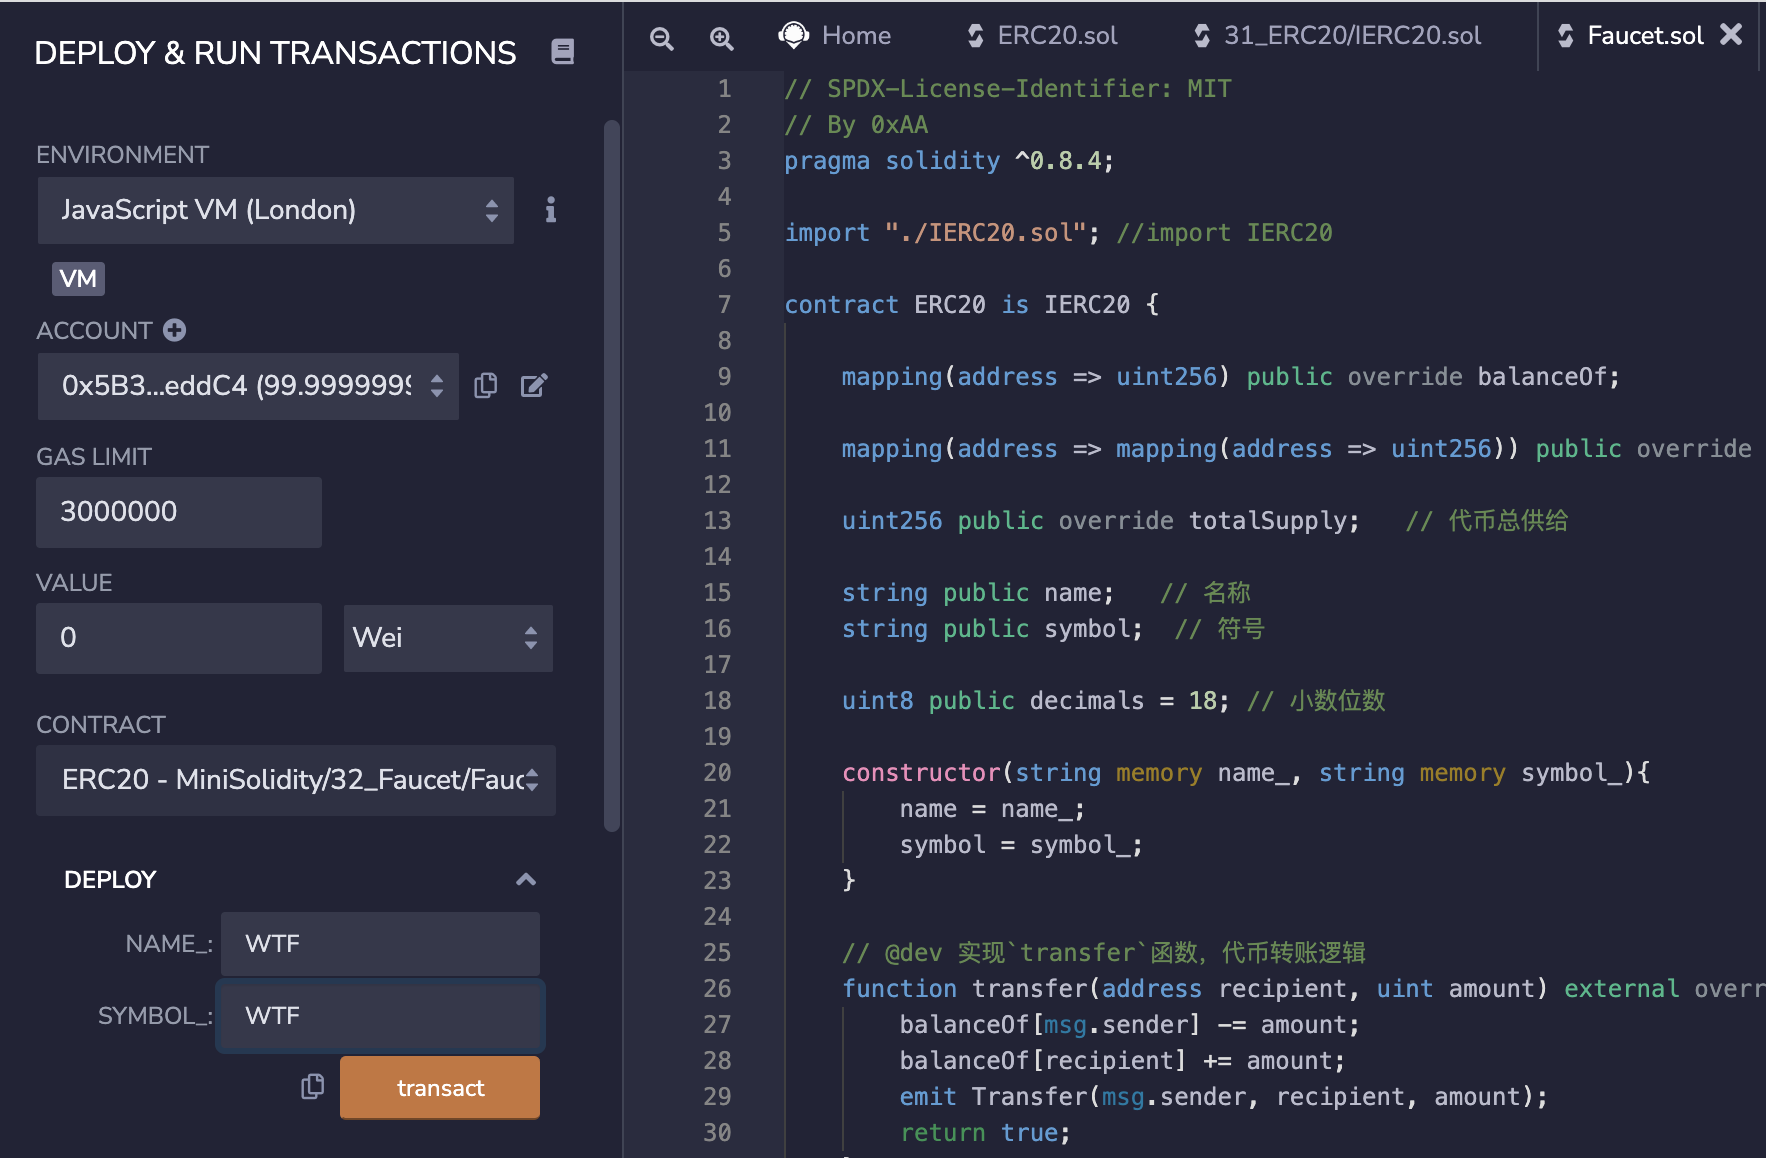
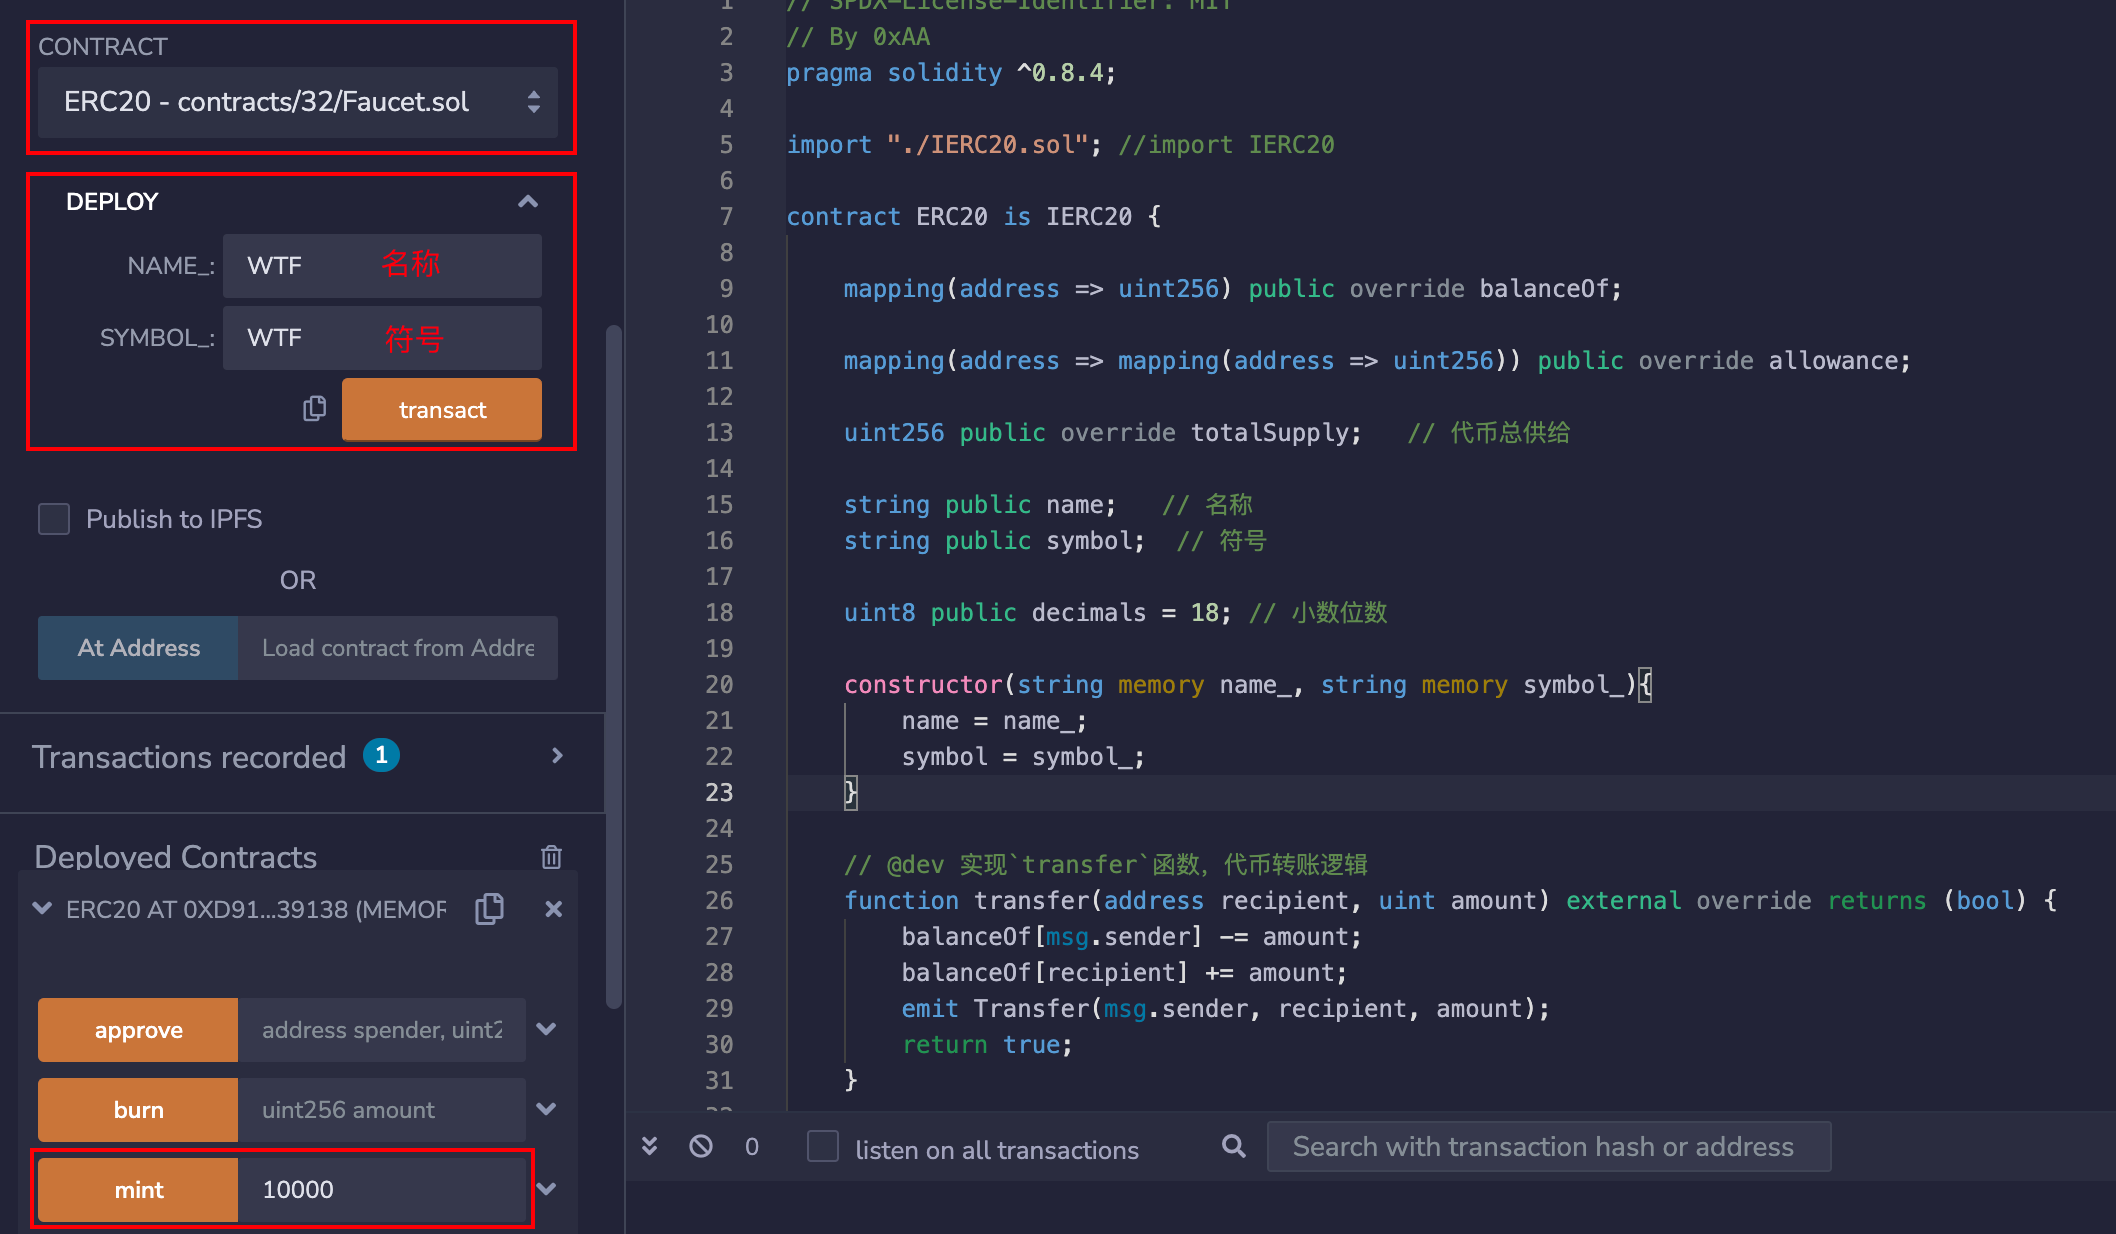
update 32_Faucet

diff --git a/32_Faucet/readme.md b/32_Faucet/readme.md
@@ -16,7 +16,7 @@
 
 当人渴的时候，就要去水龙头接水；当人想要免费代币的时候，就要去代币水龙头领。代币水龙头就是让用户免费领代币的网站/应用。
 
-最早的代币水龙头是比特币（BTC）水龙头：现在BTC一枚要$30,000，但是在2010年，BTC的价格只有不到$0.1，并且持有人很少。为了扩大影响力，比特币社区的Gavin Andresen开发了BTC水龙头，让别人可以免费领BTC。撸羊毛大家都喜欢，当时就有很多人去撸，一部分变为了BTC的信徒。BTC水龙头一共送出了超过19,700枚BTC，现在价值约6亿美元！
+最早的代币水龙头是比特币（BTC）水龙头：现在BTC一枚要\$30,000，但是在2010年，BTC的价格只有不到\$0.1，并且持有人很少。为了扩大影响力，比特币社区的Gavin Andresen开发了BTC水龙头，让别人可以免费领BTC。撸羊毛大家都喜欢，当时就有很多人去撸，一部分变为了BTC的信徒。BTC水龙头一共送出了超过19,700枚BTC，现在价值约6亿美元！
 
 ## ERC20水龙头合约
 
@@ -26,14 +26,14 @@
 
 我们在水龙头合约中定义3个状态变量
 
-- `amountAllowed`设定每次能领取代币数量（默认为`100`。不是一百枚，因为代币有小数位数）。
+- `amountAllowed`设定每次能领取代币数量（默认为`100`，不是一百枚，因为代币有小数位数）。
 - `tokenContract`记录发放的`ERC20`代币合约地址。
 - `requestedAddress`记录领取过代币的地址。
 
 ```solidity
-    uint256 public amountAllowed = 100; // 每次领 100 单位代币
-    address public tokenContract;   // token合约地址
-    mapping(address => bool) public requestedAddress;   // 记录领取过代币的地址
+uint256 public amountAllowed = 100; // 每次领 100 单位代币
+address public tokenContract;   // token合约地址
+mapping(address => bool) public requestedAddress;   // 记录领取过代币的地址
 ```
 
 ### 事件
@@ -41,8 +41,8 @@
 水龙头合约中定义了1个`SendToken`事件，记录了每次领取代币的地址和数量，在`requestTokens()`函数被调用时释放。
 
 ```solidity
-    // SendToken事件    
-    event SendToken(address indexed Receiver, uint256 indexed Amount); 
+// SendToken事件    
+event SendToken(address indexed Receiver, uint256 indexed Amount); 
 ```
 
 ### 函数
@@ -51,31 +51,31 @@
 
 - 构造函数：初始化`tokenContract`状态变量，确定发放的`ERC20`代币地址。
 ```solidity
-    // 部署时设定ERC2代币合约
-    constructor(address _tokenContract) {
-        tokenContract = _tokenContract; // set token contract
-    }
+// 部署时设定ERC2代币合约
+constructor(address _tokenContract) {
+	tokenContract = _tokenContract; // set token contract
+}
 ```
 
 - `requestTokens()`函数，用户调用它可以领取`ERC20`代币。
 
 ```solidity
-    // 用户领取代币函数
-    function requestTokens() external {
-        require(requestedAddress[msg.sender] == false, "Can't Request Multiple Times!"); // 每个地址只能领一次
-        IERC20 token = IERC20(tokenContract); // 创建IERC20合约对象
-        require(token.balanceOf(address(this)) >= amountAllowed, "Faucet Empty!"); // 水龙头空了
+// 用户领取代币函数
+function requestTokens() external {
+    require(requestedAddress[msg.sender] == false, "Can't Request Multiple Times!"); // 每个地址只能领一次
+    IERC20 token = IERC20(tokenContract); // 创建IERC20合约对象
+    require(token.balanceOf(address(this)) >= amountAllowed, "Faucet Empty!"); // 水龙头空了
 
-        token.transfer(msg.sender, amountAllowed); // 发送token
-        requestedAddress[msg.sender] = true; // 记录领取地址 
-        
-        emit SendToken(msg.sender, amountAllowed); // 释放SendToken事件
-    }
+    token.transfer(msg.sender, amountAllowed); // 发送token
+    requestedAddress[msg.sender] = true; // 记录领取地址 
+    
+    emit SendToken(msg.sender, amountAllowed); // 释放SendToken事件
+}
 ```
 
 ## Remix演示
 
-1. 首先，部署`ERC20`代币合约，并给自己`mint` 10000 单位代币。
+1. 首先，部署`ERC20`代币合约，名称和符号为`WTF`，并给自己`mint` 10000 单位代币。
     ![部署`ERC20`](./img/32-1.png)
 
 2. 部署`Faucet`水龙头合约，初始化的参数填上面`ERC20`代币的合约地址。
@@ -83,12 +83,14 @@
 
 3. 利用`ERC20`代币合约的`transfer()`函数，将 10000 单位代币转账到`Faucet`合约地址。
     ![给`Faucet`水龙头合约转账](./img/32-3.png)
-
+    
 4. 换一个新账户，调用`Faucet`合约`requestTokens()`函数，领取代币。可以在终端看到`SendToken`事件被释放。
-    ![requestToken](./img/32-4.png)
-
-5. 在`ERC20`代币合约上利用`balanceOf`查询账户余额，可以看到余额变为`100`，领取成功！
-    ![领取成功](./img/32-5.png)
+    ![切换账户](./img/32-4.png)
+    
+    ![requestToken](./img/32-5.png)
+    
+5. 在`ERC20`代币合约上利用`balanceOf`查询领取水龙头的账户余额，可以看到余额变为`100`，领取成功！
+    ![领取成功](./img/32-6.png)
 
 ## 总结
 
